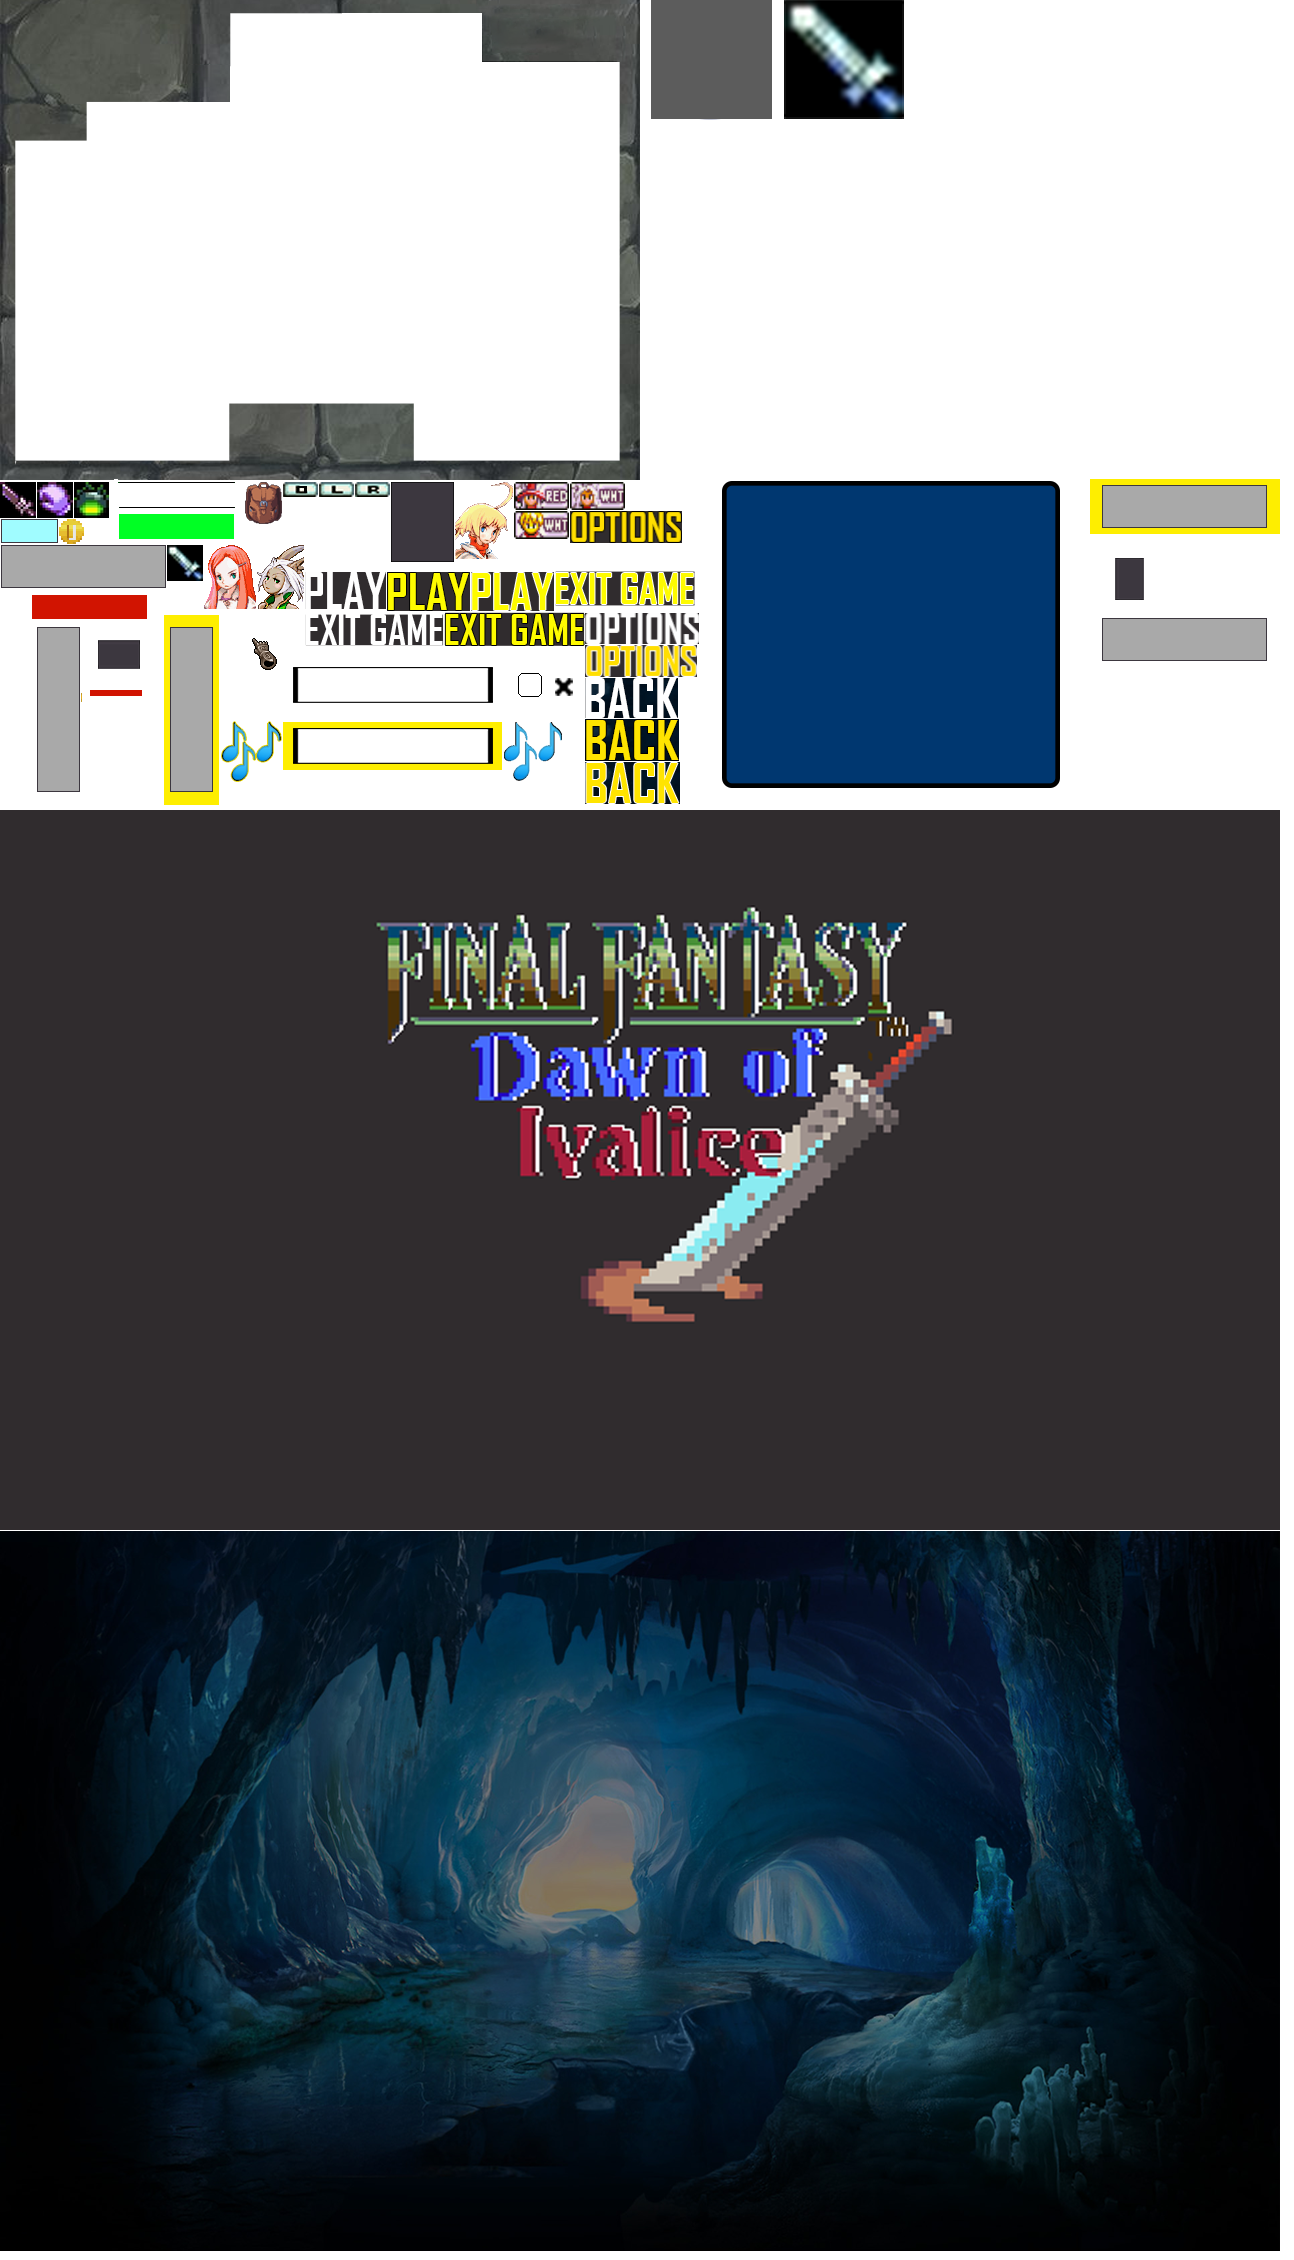
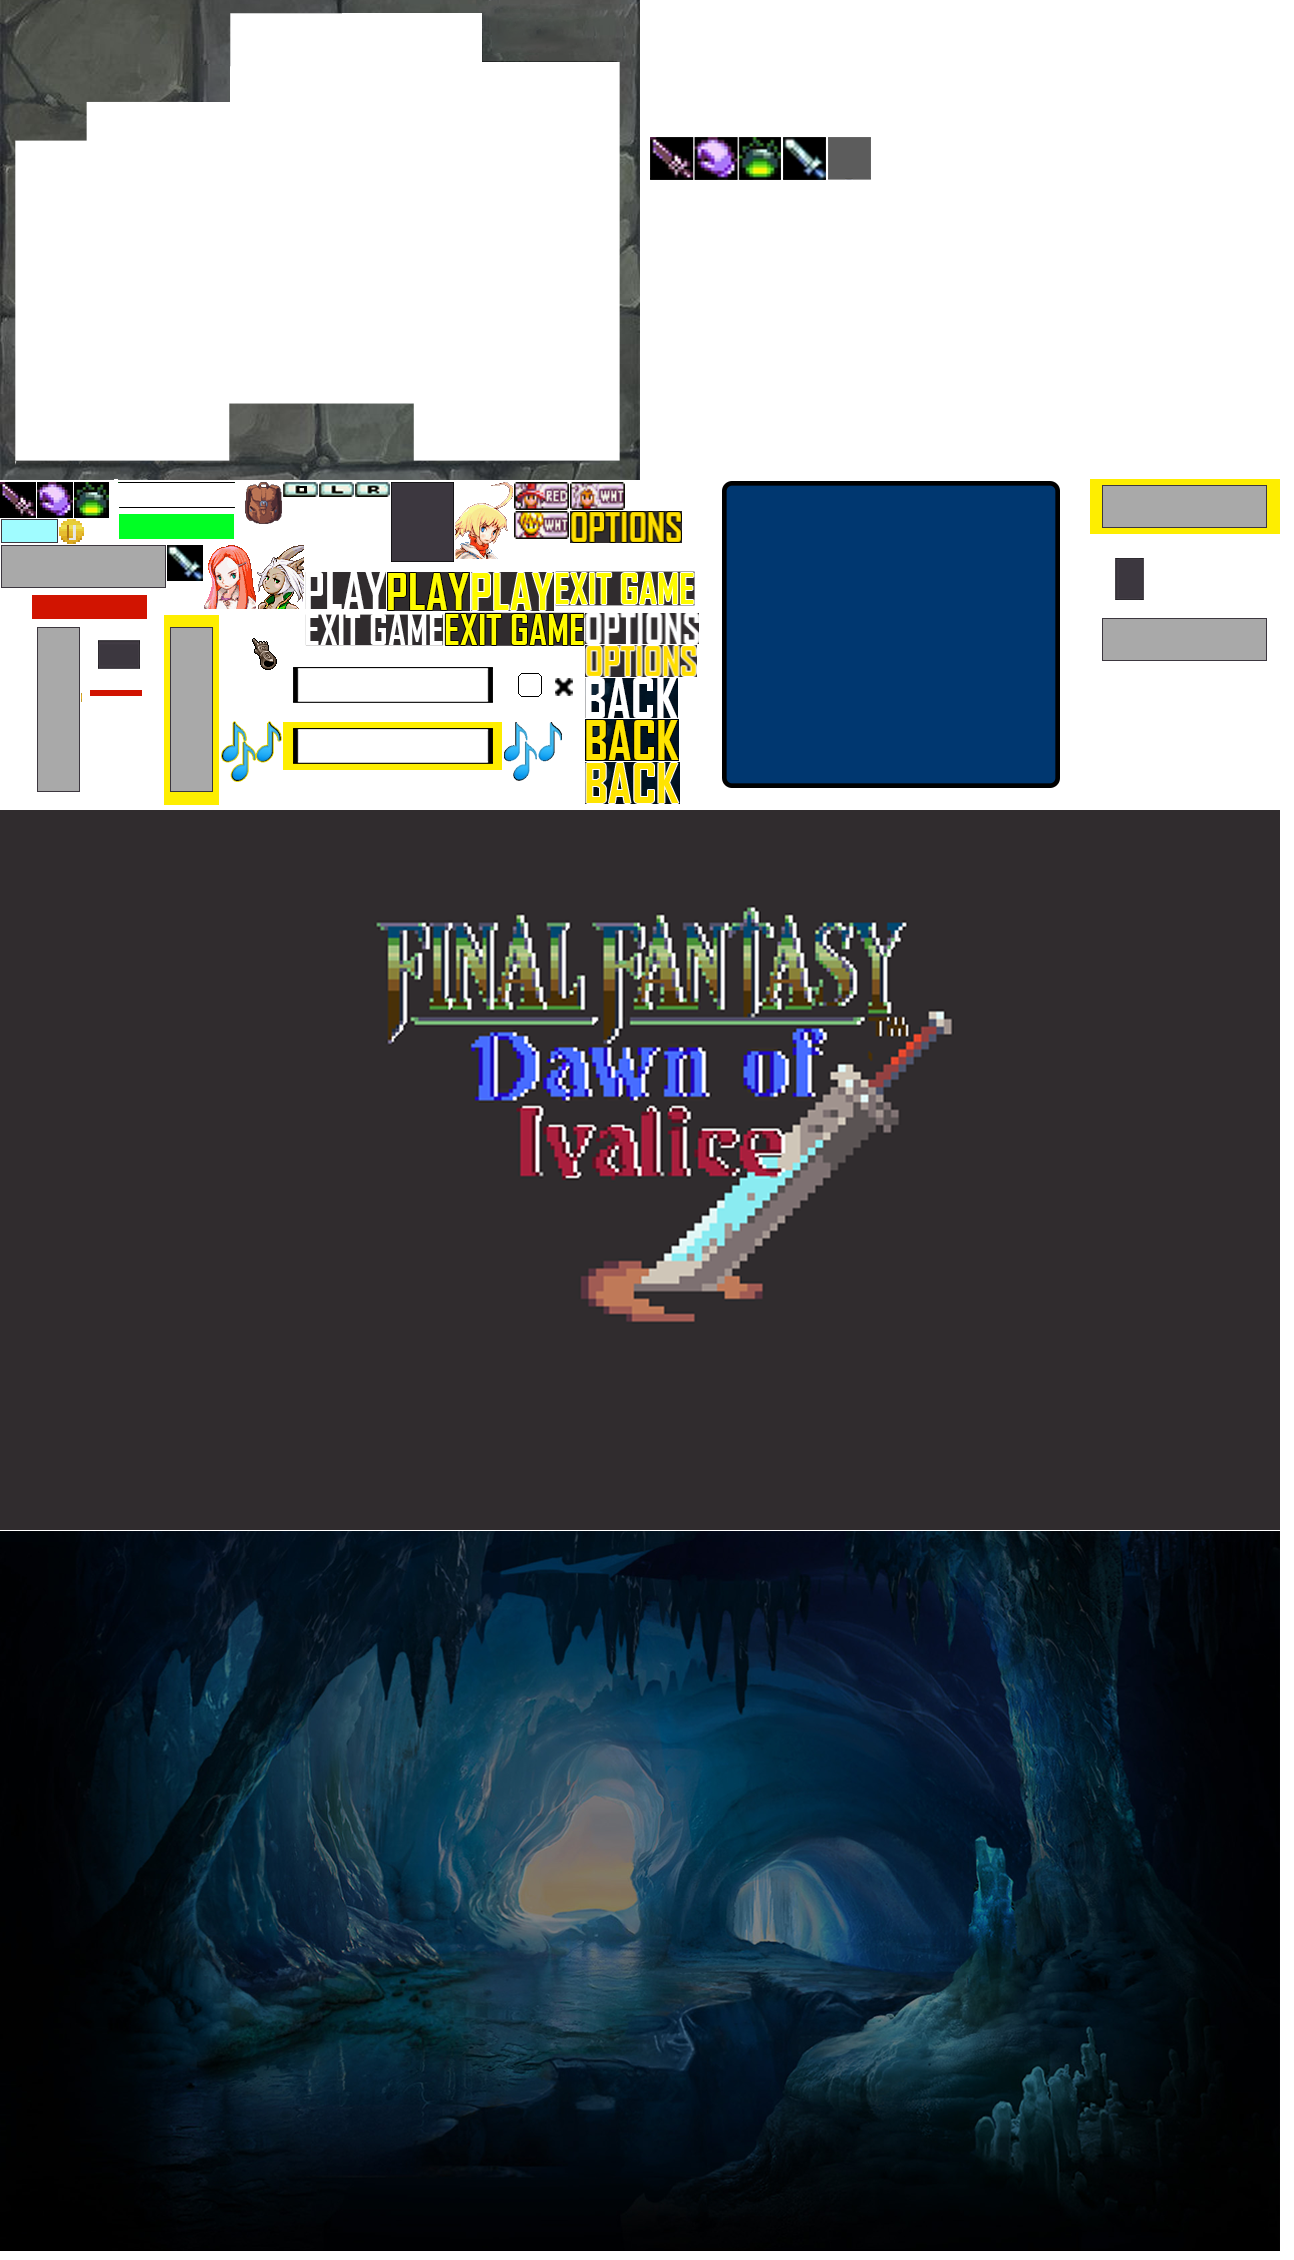
clock and abilit synchro placing

Changed region(s): [[0.4946, 0.0, 0.711, 0.0929]]

diff --git a/Game/maps/tilesetprueba.tsx b/Game/maps/tilesetprueba.tsx
@@ -1,0 +1,4 @@
+<?xml version="1.0" encoding="UTF-8"?>
+<tileset version="1.2" tiledversion="1.2.0" name="tilesetprueba" tilewidth="64" tileheight="64" spacing="1" margin="1" tilecount="63" columns="9">
+ <image source="tilesetprueba.png" width="640" height="512"/>
+</tileset>
